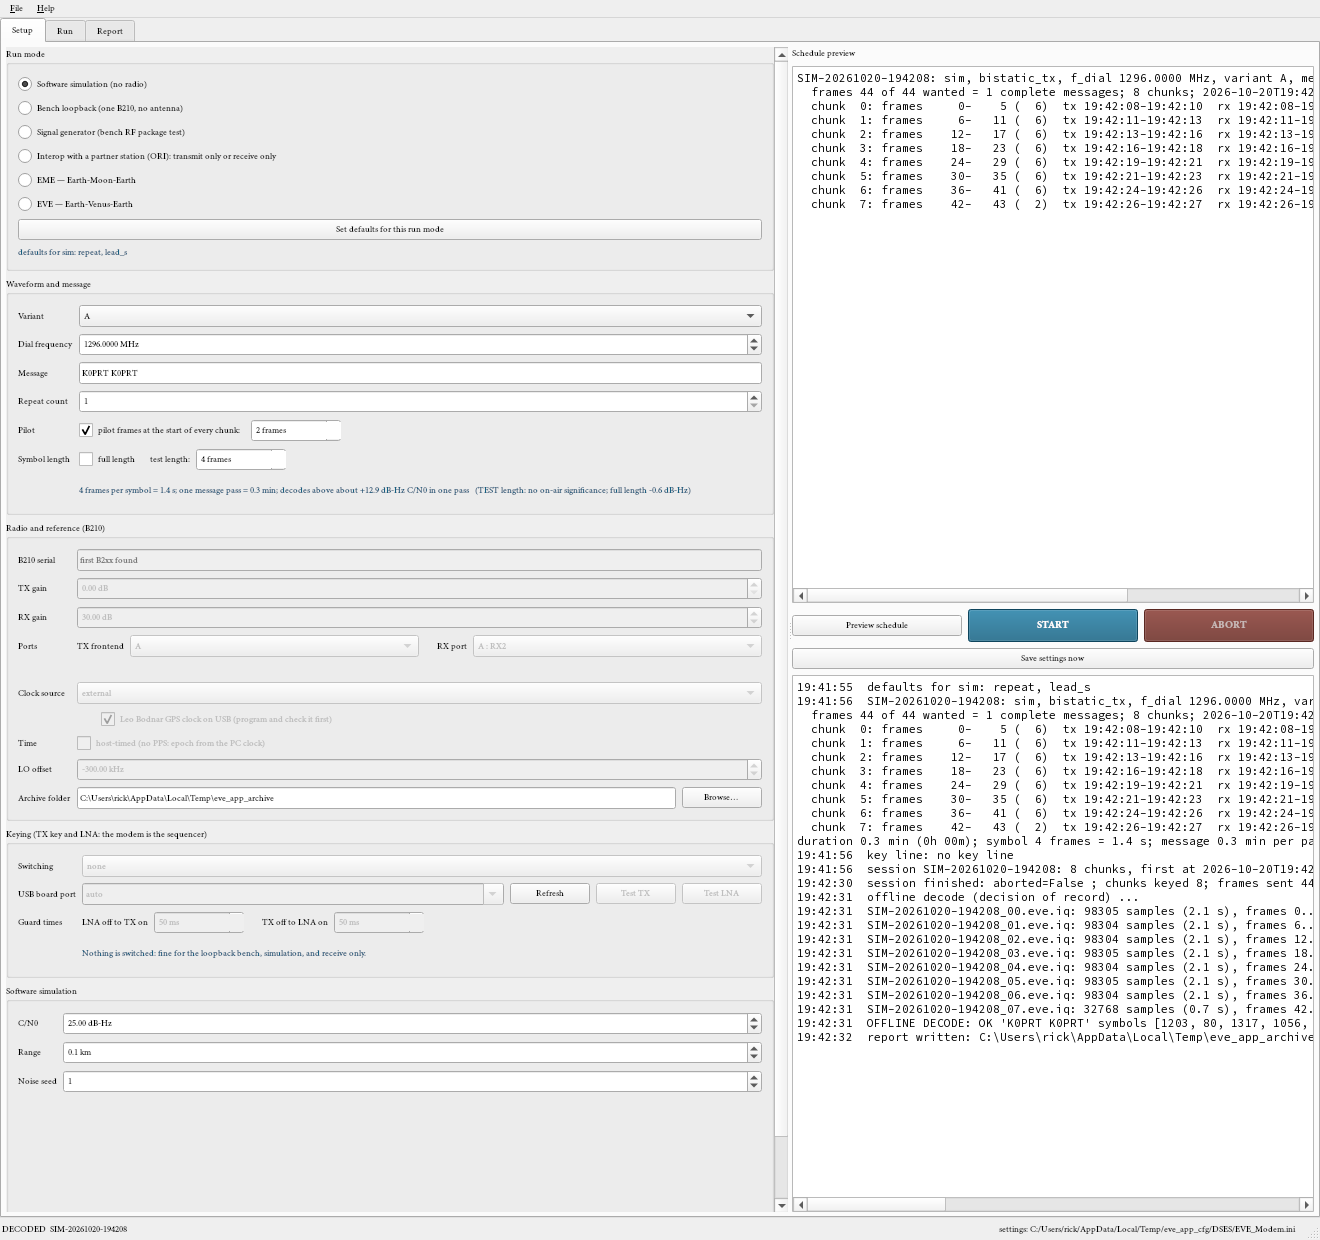
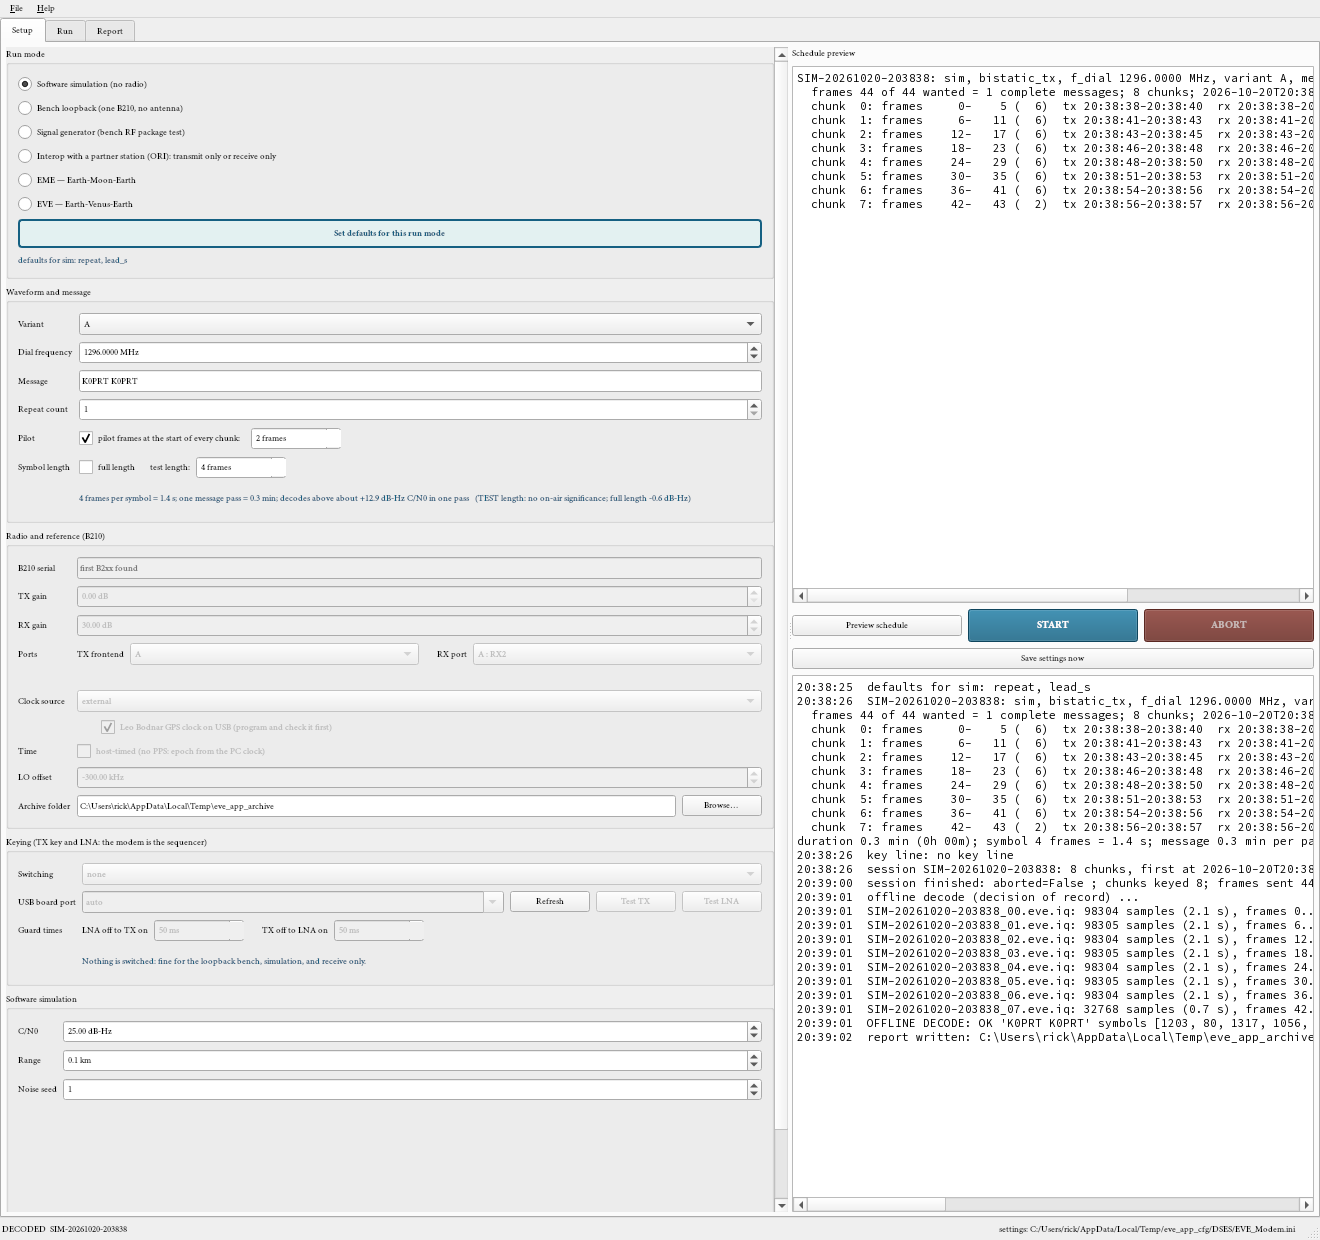
Live modes default to the switching; Defaults and Save buttons highlighted; preview shows the next viable schedule
- Set defaults for EME, EVE and the signal generator selects the TX key + LNA switching
  (USB relay board + B210 GPIO); bench, simulation and interop are unchanged.
- "Set defaults for this run mode" and "Save settings now" share a highlight style.
- Preview with the Moon or Venus below the horizon keeps the warning and shows the next
  viable schedule, from the minute the target reaches 10 degrees (coarse two-day
  ephemeris, refined to the minute); Start still refuses a target below the horizon.
- Guide 4.1, 4.3, 4.5; application figures regenerated; test extended.

diff --git a/eve/app.py b/eve/app.py
@@ -51,6 +51,10 @@ PREFIX = {"sim": "SIM", "bench": "BENCH", "siggen": "SIGGEN", "interop": "INTERO
 TARGET = {"sim": "sim", "bench": "bench", "siggen": "siggen", "interop": "partner", "eme": "moon", "eve": "venus"}
 FULL_FRAMES = {"A": 473, "B": 247, "MATLAB": 540}
 KEYER_KINDS = {"none": "none", "TX key + LNA (USB relay board + B210 GPIO)": "sequencer"}
+# highlighted Setup buttons (Rick, 2026-10-20): "Set defaults for this run mode" and "Save settings now"
+HIGHLIGHT_STYLE = (f"QPushButton {{ background: #e3f1f1; color: {TEAL}; border: 2px solid {TEAL}; "
+                   f"border-radius: 4px; font-weight: bold; padding: 6px; }} "
+                   f"QPushButton:hover {{ background: {TEAL}; color: white; }}")
 _LEGACY_KEYER_KINDS = {"B210 GPIO": "TX key + LNA (USB relay board + B210 GPIO)", "USB relay board": "TX key + LNA (USB relay board + B210 GPIO)"}   # settings from before 2026-09-23
 
 # "Set defaults" for a run mode: every setting the mode cares about goes to the design
@@ -62,7 +66,9 @@ MODE_DEFAULTS = {
             "sim_seed": 1, "bench_chunk_s": 2.4, "bench_t_off_min": 0.5, "lead_s": 12.0},
     "bench": {"f_dial_mhz": 1296.0, "repeat": 2, "full_symbol": False, "pilot_frames": 2, "tx_gain": 0.0, "rx_gain": 30.0,
               "bench_range_km": 0.15, "bench_chunk_s": 2.4, "bench_t_off_min": 0.5, "lead_s": 15.0},
-    "siggen": {"f_dial_mhz": 1296.0, "full_symbol": False, "tx_gain": 0.0, "siggen_signal": "CW", "siggen_offset_khz": 0.0,
+    # the live modes (Moon, Venus, signal generator into the RF package) default to the switching:
+    # the USB relay board + B210 GPIO sequencer (Rick, 2026-10-20: "keyline active")
+    "siggen": {"keyer_kind": "TX key + LNA (USB relay board + B210 GPIO)", "f_dial_mhz": 1296.0, "full_symbol": False, "tx_gain": 0.0, "siggen_signal": "CW", "siggen_offset_khz": 0.0,
                "siggen_spacing_khz": 10.0, "siggen_level_db": -3.0, "siggen_pa": False,
                "siggen_sim": False, "siggen_sweep": False, "siggen_sweep_start_db": 0.0, "siggen_sweep_stop_db": 60.0, "siggen_sweep_step_db": 5.0,
                "siggen_sweep_hold_s": 10.0, "lead_s": 15.0},
@@ -73,11 +79,11 @@ MODE_DEFAULTS = {
     # Variant B for the Moon and Venus (design D13: the DSES 23 cm monostatic waveform, +1.1 dB; the
     # published link margins assume it); the Moon chunk holds three B frames, so the pilot is 1 frame.
     # TX gain 55 dB on the air for the Moon and Venus (Rick, 2026-10-20)
-    "eme": {"variant": "B", "f_dial_mhz": 1296.0, "repeat": 2, "full_symbol": False, "pilot_frames": 1, "tx_gain": 55.0, "rx_gain": 40.0,
+    "eme": {"keyer_kind": "TX key + LNA (USB relay board + B210 GPIO)", "variant": "B", "f_dial_mhz": 1296.0, "repeat": 2, "full_symbol": False, "pilot_frames": 1, "tx_gain": 55.0, "rx_gain": 40.0,
             "eme_chunk_s": 2.4, "eme_rtt_guard": 0.1, "eme_t_off_min": 0.5, "eme_t_on_max": 300.0, "eme_pa": False,
             "sky_mode": "monostatic", "sky_source": "auto", "sky_precomp": True, "sky_rx_doppler": False,
             "sky_start_now": True, "lead_s": 30.0},
-    "eve": {"variant": "B", "f_dial_mhz": 1299.5, "repeat": 5, "full_symbol": True, "pilot_frames": 40, "tx_gain": 55.0, "rx_gain": 45.0,
+    "eve": {"keyer_kind": "TX key + LNA (USB relay board + B210 GPIO)", "variant": "B", "f_dial_mhz": 1299.5, "repeat": 5, "full_symbol": True, "pilot_frames": 40, "tx_gain": 55.0, "rx_gain": 45.0,
             "sky_chunk_s": 240.0, "sky_rtt_guard": 30.0, "sky_t_on_max": 300.0, "sky_t_off_min": 240.0, "sky_pa": True,
             "sky_mode": "monostatic", "sky_source": "auto", "sky_precomp": True, "sky_rx_doppler": False,
             "sky_start_now": True, "lead_s": 60.0},
@@ -1039,6 +1045,7 @@ class EveApp(QtWidgets.QMainWindow):
         self.mode_group.idClicked.connect(lambda _i: self._mode_changed(user=True))
         self.btn_defaults = QtWidgets.QPushButton("Set defaults for this run mode")
         self.btn_defaults.setToolTip(TIPS["set_defaults"])
+        self.btn_defaults.setStyleSheet(HIGHLIGHT_STYLE)      # the first thing to press after choosing a mode
         self.btn_defaults.clicked.connect(self._set_defaults)
         v.addWidget(self.btn_defaults)
         self.lbl_coherence = QtWidgets.QLabel("")
@@ -1456,6 +1463,7 @@ class EveApp(QtWidgets.QMainWindow):
         brow.addWidget(self.btn_abort)
         right.addLayout(brow)
         self.btn_save = QtWidgets.QPushButton("Save settings now")
+        self.btn_save.setStyleSheet(HIGHLIGHT_STYLE)
         self.btn_save.clicked.connect(self._save)
         right.addWidget(self.btn_save)
         self.setup_log = QtWidgets.QPlainTextEdit()

diff --git a/eve/worker.py b/eve/worker.py
@@ -22,6 +22,7 @@ usable in-process (the tools and tests).
 from __future__ import annotations
 
 import json
+import math
 import os
 import threading
 import time
@@ -39,6 +40,7 @@ from .doppler import iso_utc
 
 PREFIX = {"sim": "SIM", "bench": "BENCH", "interop": "INTEROP", "eme": "EME", "eve": "EVE"}
 TARGET = {"sim": "sim", "bench": "bench", "interop": "partner", "eme": "moon", "eve": "venus"}
+PREVIEW_MIN_EL_DEG = 10.0     # a preview with the target below the horizon shifts to when it reaches this
 
 
 class Runner:
@@ -157,6 +159,24 @@ class Runner:
                 el = model.elevation_deg(t_start)
                 self.say(f"{target} at start: elevation {el:.1f} deg, RTT {model.rtt_s(t_start):.2f} s, "
                          f"Doppler {model.doppler_hz(t_start, f_dial):+.1f} Hz")
+                if el < 0 and preview_only:
+                    # Rick, 2026-10-20: keep the warning, but show the NEXT viable schedule
+                    t_next = self._next_viable_start(target, site, t_start, cfg["sky_source"])
+                    if t_next is None:
+                        raise RuntimeError(f"{target} is below the horizon at the start time (elevation {el:.1f} deg) "
+                                           f"and does not reach {PREVIEW_MIN_EL_DEG:.0f} deg within two days")
+                    msg = (f"{target} is below the horizon at the start time (elevation {el:.1f} deg). The preview "
+                           f"shows the next viable schedule, from {iso_utc(t_next, 0)} when {target} reaches "
+                           f"{PREVIEW_MIN_EL_DEG:.0f} deg; set that start time (untick 'start now') before running.")
+                    self.send(("notice", msg))
+                    self.say("NOTE: " + msg)
+                    t_start = t_next
+                    sid = f"{PREFIX[mode]}-{time.strftime('%Y%m%d-%H%M%S', time.gmtime(t_start))}"
+                    model = D.make_model(target, site, t_start - 1800, t_start + 8 * 3600, source=cfg["sky_source"],
+                                         table_path=None, step="1 m")
+                    el = model.elevation_deg(t_start)
+                    self.say(f"{target} at the shifted start: elevation {el:.1f} deg, RTT {model.rtt_s(t_start):.2f} s, "
+                             f"Doppler {model.doppler_hz(t_start, f_dial):+.1f} Hz")
                 if el < 0:
                     raise RuntimeError(f"{target} is below the horizon at the start time (elevation {el:.1f} deg)")
 
@@ -297,6 +317,19 @@ class Runner:
                     pass
             self.session = None
             self.send(("state", "idle"))
+
+    def _next_viable_start(self, target: str, site, t_from: float, source: str) -> Optional[float]:
+        """The first time after t_from when the target is at or above PREVIEW_MIN_EL_DEG, found on a
+        coarse two-day ephemeris (10 min steps, then refined to the minute); None if it never is."""
+        coarse = D.make_model(target, site, t_from, t_from + 2 * 86400.0, source=source, table_path=None, step="10 m")
+        t = float(t_from)
+        while t < t_from + 2 * 86400.0:
+            if coarse.elevation_deg(t) >= PREVIEW_MIN_EL_DEG:
+                while t - 60.0 > t_from and coarse.elevation_deg(t - 60.0) >= PREVIEW_MIN_EL_DEG:
+                    t -= 60.0
+                return 60.0 * math.ceil(t / 60.0)       # a whole minute
+            t += 600.0
+        return None
 
     def _run_generator(self, cfg: Dict, p, radio, f_dial: float, archive: Path, now: float, gps_text: str,
                        preview_only: bool) -> Dict:

diff --git a/tests/test_eve_app.py b/tests/test_eve_app.py
@@ -134,7 +134,7 @@ def test_eme_defaults_fit_the_moon_chunk(tmp_path):
     # Variant B on the Moon (D13): the 2.4 s chunk holds three 0.667 s frames, one pilot + two data;
     # TX gain 55 dB on the air
     assert cfg["variant"] == "B" and cfg["pilot"] and cfg["pilot_frames"] == 1 and cfg["full_symbol"] is False
-    assert fits(cfg) and cfg["tx_gain"] == 55.0
+    assert fits(cfg) and cfg["tx_gain"] == 55.0 and cfg["keyer_kind"] == "sequencer"
     win.w["variant"].setCurrentText("A")        # Variant A: six frames per chunk
     # full length stays full on the Moon (the rules no longer flip it) and the pilot still fits
     win.w["full_symbol"].setChecked(True)
@@ -161,7 +161,10 @@ def test_eme_defaults_fit_the_moon_chunk(tmp_path):
     win._set_defaults()
     cfg = win._values()
     assert cfg["variant"] == "B" and cfg["full_symbol"] is True and cfg["pilot"] and cfg["pilot_frames"] == 40
-    assert cfg["tx_gain"] == 55.0
+    assert cfg["tx_gain"] == 55.0 and cfg["keyer_kind"] == "sequencer"
+    select("siggen")
+    win._set_defaults()
+    assert win._values()["keyer_kind"] == "sequencer"
     # interop is pinned to Variant A (ORI receivers implement A only)
     select("interop")
     win._set_defaults()

diff --git a/docs/DSES_EVE_Modem_Operators_Guide.md b/docs/DSES_EVE_Modem_Operators_Guide.md
@@ -87,7 +87,8 @@ Every control has a tooltip: hover over it or its label. The essentials:
 
 **Set defaults for this run mode** puts every setting the mode cares about back to the
 design value: variant, frequency, repeat count, symbol length, gains, chunking, timing,
-Doppler.
+Doppler, and for the Moon, Venus and the signal generator the switching (the USB relay
+board and B210 GPIO sequencer).
 The status line lists what changed. Changing the run mode, the variant, the symbol length,
 or the interop direction also applies a few consistency rules (a sky session gets an
 external clock; Venus and interop get full-length symbols, Venus 1299.5 MHz and the
@@ -183,8 +184,9 @@ interop drops the pilot) and says so in the teal line under the run modes.
   the software simulation and the loopback bench included, so the relays can be watched
   and timed with nothing on the air (in the simulation the GPIO lines are recorded rather
   than driven). It needs 1.5 s of silence between chunks; the program raises the minimum
-  off time to that when the switching is on. Choosing none for an EME or Venus run is
-  allowed but the teal line warns.
+  off time to that when the switching is on. **Set defaults** selects the switching for
+  the Moon, Venus and the signal generator; choosing none afterwards for an EME or Venus
+  run is allowed but the teal line warns.
 
 ## 4.4 Mode settings
 
@@ -199,7 +201,10 @@ them only for a reason you can write in the log.
 **Preview schedule** builds the schedule without touching the radio and lists every
 chunk with its times, frames, round trip, elevation, and Doppler, then the total
 duration. For a sky session this fetches the ephemeris, which takes a few seconds. Check
-the elevation and the duration before Start.
+the elevation and the duration before Start. If the Moon or Venus is below the horizon at
+the start time, the preview warns and shows the next viable schedule instead, from the
+minute the target reaches 10 degrees; set that start time (untick *start now*) before
+Start, which still refuses a target below the horizon.
 
 **START** saves the settings, programs the GPS clock, opens the radio, builds the
 schedule, and switches to the Run tab. The first chunk starts after the lead time (15 s).
